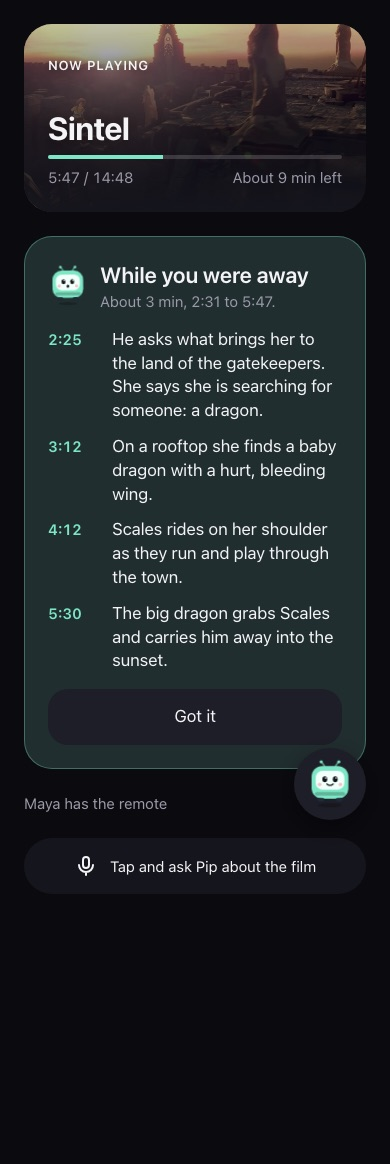
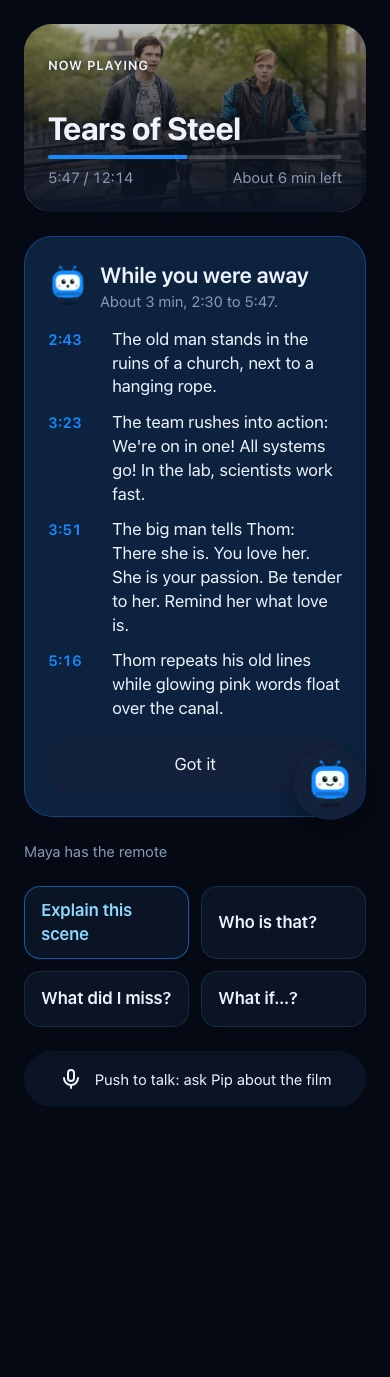
docs: Tears of Steel, the TV launcher, the pad controls and the Command Center

diff --git a/CLAUDE.md b/CLAUDE.md
@@ -9,14 +9,14 @@ Hackathon project (Amazon Developer Hackathon, Fire TV track). Deadline: Fri Oct
 | Path | What | Status |
 |---|---|---|
 | `PROJECT.md` | Plan, architecture, contracts, standards, step-by-step build prompts (section 13) | Done |
-| `shared/protocol.ts` | The only definition of socket events and payloads | Version 8 (`pad:away`, `pip:missed`, source `imagined`); PROJECT.md 7.1 shows version 2 |
+| `shared/protocol.ts` | The only definition of socket events and payloads | Version 9 (`pad:away`, `pip:missed`, source `imagined`, film `tags`, `SceneView`, `HubSnapshot`); PROJECT.md 7.1 shows version 2 |
 | `scripts/sync-shared.mjs` | Copies the contract into `server/src/shared`, `pad/src/shared`, `tv/src/shared` | Done |
 | `scripts/run-all.mjs` | Runs `typecheck`, `lint` or `test` in each package that has a `package.json` | Done |
 | `scripts/tunnel.mjs` | Cloudflare quick tunnel; writes `PUBLIC_URL` and `SERVER_URL` | Done (used from Step 3) |
 | `scripts/preflight.mjs` | `npm run preflight`: PASS or FAIL per demo check (Node 22, HTTPS URL, film, quiz, pad/dist, smoke:ai) | Done |
 | `server/` | Node 22 + Express 5 + Socket.IO 4.8 + Bedrock. `src/core/` = Pip Core, `src/film/` = film night | Steps 2, 4, 7, 8 and 9 done: config, films, /health, /api/films, /qr, /media, model wrapper, sessions, players, host, realtime handlers, Ask Pip, quiz drafts, quiz and results, fake:tv, smoke:join, smoke:quiz |
 | `server/.env` | Local config (gitignored), copied from `server/.env.example` | Done |
-| `pad/` | React + Vite web app: the Pip Pad at `/`, and the browser TV at `/tv` (`pad/src/tv/`, a second TV client on the same protocol; `pad/README.md`) | Steps 5, 7, 9 and 10 done: join, lobby, host controls, status pill, Pip and its motion, debug overlay, Ask Pip, quiz, results, fullscreen, wake lock |
+| `pad/` | React + Vite web app: the Pip Pad at `/`, the browser TV at `/tv` (`pad/src/tv/`, a second TV client on the same protocol), and the Command Center at `/hub` (`pad/src/hub/`, this machine only); `pad/README.md` | Steps 5, 7, 9 and 10 done: join, lobby, host controls, status pill, Pip and its motion, debug overlay, Ask Pip, quiz, results, fullscreen, wake lock |
 | `tv/` | Vega OS app (React Native for Vega) | Steps 3, 6 and the TV parts of 7, 9 and 10 done: lobby with QR and posters, watch with host commands and Pip's bubble, quiz and results, Pip's moods and colors. Commands in `tv/README.md` |
 | `PRODUCT.md`, `DESIGN.md`, `docs/architecture/`, `docs/decisions/`, `docs/evaluation/`, `docs/engineering/` | Product, design, architecture (current state and target), decisions, benchmark, open-source review; from the cloud session, reconciled at the merge | Done |
 | `docs/` | Friction log, product feedback, measurements, demo script; later devpost | Templates, empty measurement tables and a devpost draft done; demo script needs the scene times from the notes |
@@ -52,7 +52,8 @@ Hackathon project (Amazon Developer Hackathon, Fire TV track). Deadline: Fri Oct
 - Oct 17: hand gestures fixed after the first webcam run (one seek per point, a 1.2 s fist for Pip, the TV reconnects unless backgrounded, TV connects and disconnects journaled). The browser TV at `/tv` (contract v6: `tv:home`, film `synopsis`): a Fire TV style home (featured film, rows, the Pip Pad panel) and player (transport bar, command toasts, quiet Pip), the keyboard as the remote; checked in headless Chrome with a pad socket (pause, play, seek, Pip open and close all confirmed by the TV in 6 to 12 ms). Kids-mode screens on the browser TV are not yet walked through.
 - Oct 17-21: video understanding (docs/extractions/video-understanding.md): `npm run pipeline -- asr` runs whisper.cpp (video/setup.sh), `understand` runs qwen3-vl:4b-instruct through Ollama over the frames with a character roster; names only from dialogue (`namedSec`), first-mention spoiler terms, an `unsupported-term` answer check, honest coverage for a partial run. Sintel's generated timeline (content/timelines/sintel.json, 155 candidate facts, frames 0 to 384 s; the run was stopped to spare the 8 GB Mac) answers with `TIMELINE_REVIEW=candidate`; by default Sintel stays on its notes. Tracking vs 31 hand-labelled frames: precision 0.82, recall 0.72. Server 374 tests. Rejected with reasons: Qwen2.5-VL-3B, PySceneDetect, DeepVideoR1 (no licence or weights); Nova blocked on AWS.
 - Oct 22, local-first (docs/vnext/PLAN.md section 0; AWS not verified in time, so no AWS): `AI_PROVIDER=ollama` is the default; both demo films answer through reviewed timelines built from their notes (`npm run timeline:notes`; every note checked against a frame, revealed 10 s after its time; the pipeline's Sintel timeline moved to `server/pipeline/timelines/`); golden probes and datasets for both films. Benchmark with qwen2.5:3b: 0 leaks in 104 (Big Buck Bunny) and 110 (Sintel) probes. "While you were away" (contract v7: `pad:away`, `pip:missed`): a pad hidden or offline during the film, or a late joiner, gets a private recap up to now, no model call. The pad on a tablet: the film's still in a now-playing card, Pip beside the remote. README and docs/devpost.md rewritten. "What if...?" (v8): Pip makes up another version of the story from what has been shown, through the spoiler gate, labelled "made up by Pip". Evidence: docs/vnext/REPORT-local-first.md.
-- Next (Parth): the VVD walk-through of this build (rebuild the TV app on v8), a 10-minute viewing test, the recording, "What we learned" in docs/devpost.md, tag v0.1.0 after `npm run preflight` passes. Cut for the submission: Phase 5 hardware, Phase 6 recommendations, Nova.
+- Oct 22, later: Big Buck Bunny replaced by Tears of Steel (live action, CC BY 3.0; notes from a frame every 10 s and the subtitles; 0 leaks in 108 probes, 95% answered). The browser TV gets Home, Discover, My Space, Scenes (watched chapters only, `GET /api/films/:id/scenes?until=`) and Search; the pad a directional control, quick actions and push to talk; the Command Center at `/hub` (`GET /api/hub`, this machine only, 403 through the tunnel). Palette: Void #050914, Surface #0B1424, Electric #168BFF, Ice #8ED8FF.
+- Next (Parth): the VVD walk-through of this build (rebuild the TV app on v9), a 10-minute viewing test, the recording, "What we learned" in docs/devpost.md, tag v0.1.0 after `npm run preflight` passes. Cut for the submission: Phase 5 hardware, Phase 6 recommendations, Nova.
 
 Update this list when a step is committed.
 

diff --git a/README.md b/README.md
@@ -7,18 +7,22 @@ Built for the Amazon Developer Hackathon, Fire TV track. Direction: [docs/vnext/
 ## What it does
 
 1. **Join.** The TV shows a QR code and a 4-character code. Each person scans it with a phone or tablet (the Pip Pad) and types a first name. The first one in is the host.
-2. **Watch.** The host picks Big Buck Bunny or Sintel. During the film Pip is invisible on the TV.
+2. **Watch.** The TV opens on a Fire TV style launcher: Home, Discover (pick by kind and length), My Space (continue watching, who's in the room, what Pip keeps), Scenes (only the chapters you've already watched, to jump back to) and Search. Two films: **Tears of Steel**, a live-action sci-fi short with real actors, and **Sintel**, an animated fantasy with a twist. During the film Pip is invisible on the TV.
 3. **Control it any way you like.** Play, pause, ±10 s, volume, brightness and simulated lights come from the host's pad, voice ("pause", "back 10", "louder"), webcam hand gestures (`npm run gesture`) or the TV remote. They all go through one action router, and the TV confirms each command. None of them calls a model.
 4. **Ask Pip.** Tap, type or speak. Pip answers briefly on the TV and the asker's pad, using only facts the film has already shown. Questions about later get "No spoilers from me".
 5. **While you were away.** A pad that sleeps or drops off during the film, or someone who joins late, gets a private recap of what they missed, up to now and never further. The film keeps playing for everyone else.
 6. **What if...?** "What if Sintel had kept Scales inside that night?" or, after the film, "Give it a happier ending." Pip makes up a short version of the story from what has been shown so far, labelled "made up by Pip" on every screen. Mid-film it doesn't know the real story ahead, and the spoiler gate keeps later words and unseen characters out, so a made-up ending can't give the real one away by accident. Both films are CC BY 3.0, which allows adaptations.
-7. **Kids games (opt-in).** A switch in the lobby turns on guesses, reactions and a quiz after the film. They're off by default.
+7. **The Command Center** at `http://localhost:8787/hub`, on the Mac only: the brain and whether it's answering, what's playing, each film's reviewed facts and benchmark, today's journal, the devices, automations marked Active, Opt-in or Planned, and the settings. Through the tunnel it refuses to answer.
+8. **Kids games (opt-in).** A switch in the lobby turns on guesses, reactions and a quiz after the film. They're off by default.
 
 ![The TV home](docs/screenshots/local-tv-home.jpg)
-![Ask Pip on a tablet, beside the remote](docs/screenshots/local-pad-tablet-ask.jpg)
-![Pip's answer on the TV, during the film](docs/screenshots/local-tv-answer.jpg)
-
-!["While you were away" on a phone](docs/screenshots/local-pad-missed.jpg)
+![Discover](docs/screenshots/local-tv-discover.jpg)
+![Scenes: only what you've watched](docs/screenshots/local-tv-scenes.jpg)
+![A "what if" ending on the TV](docs/screenshots/local-tv-whatif.jpg)
+![The Pip Pad on a tablet: the directional control and Ask Pip](docs/screenshots/local-pad-tablet-ask.jpg)
+!["While you were away" and the quick actions on a phone](docs/screenshots/local-pad-missed.jpg)
+![The Command Center](docs/screenshots/local-hub-overview.jpg)
+![The Command Center's Library](docs/screenshots/local-hub-library.jpg)
 
 The TV screenshots are from the browser TV at `/tv`. The Vega app's earlier screens (16 Oct, on the Vega Virtual Device) are in `docs/screenshots/tv-*.jpg`.
 
@@ -26,9 +30,9 @@ The TV screenshots are from the browser TV at `/tv`. The Vega app's earlier scre
 
 | Claim | Evidence |
 |---|---|
-| Pip does not spoil the film | 0 leaks in 104 probes on Big Buck Bunny and 110 on Sintel with the local model (`npm run eval -- <film> --ollama`; [docs/evaluation/results/](docs/evaluation/results/)) |
-| Pip answers when the film has shown the answer | 98% (Big Buck Bunny) and 95% (Sintel) of grounded questions answered; every expected fact cited |
-| Pip says when it doesn't know | Abstains correctly on 93 to 95% of unknown-fact and future questions |
+| Pip does not spoil the film | 0 leaks in 108 probes on Tears of Steel and 110 on Sintel with the local model (`npm run eval -- <film> --ollama`; [docs/evaluation/results/](docs/evaluation/results/)) |
+| Pip answers when the film has shown the answer | 95% (Tears of Steel) and 95% (Sintel) of grounded questions answered; every expected fact cited |
+| Pip says when it doesn't know | Abstains correctly on 95 to 98% of unknown-fact and future questions |
 | Controls never wait for a model | 0 model calls for playback; TV confirmation in 6 to 12 ms (browser TV), 177 to 239 ms (VVD over the tunnel) |
 | The catch-up is private and safe | Lab scenarios over real sockets (`server/src/lab/away.test.ts`) |
 
@@ -109,6 +113,6 @@ The Vega app: [tv/README.md](tv/README.md). Rebuild it after a new tunnel URL. T
 ## Credits and licenses
 
 - Code: MIT, see [LICENSE](LICENSE). Vendored: gesture-tv-remote (MIT) in `gesture/vendor`.
-- Big Buck Bunny, (c) copyright 2008 Blender Foundation, www.bigbuckbunny.org, CC BY 3.0.
+- Tears of Steel, (c) copyright 2012 Blender Foundation, mango.blender.org, CC BY 3.0. (Its soundtrack is CC BY-ND; Pip doesn't adapt the music.)
 - Sintel, (c) copyright 2010 Blender Foundation, durian.blender.org, CC BY 3.0.
 - The films are served from our own server and are not in this repository. The posters and screenshots are stills from them.

diff --git a/docs/devpost.md b/docs/devpost.md
@@ -17,7 +17,8 @@ When someone asks "wait, who is that?" or comes back from the kitchen asking "wh
 - **What if...?** Ask "What if Sintel had kept Scales inside that night?", or after the film "Give it a happier ending", and Pip writes a short version of its own, labelled "made up by Pip". It writes only from what the film has shown so far, and the same spoiler gate keeps later words and characters out. So a made-up ending can never give the real one away by accident, and at the end Pip can rewrite the story from the whole film. Stories never feed back into Pip's factual answers. Both films are CC BY 3.0, which allows adaptations. For other films, this is a rights question for the studio.
 - **Quiet by default.** During the film, Pip is hidden on the TV. It appears only when someone asks, on pause, or when called with the Pip button. Quizzes, guesses and reactions for children are an opt-in "Kids games" switch, never the default.
 - **One remote for everything, without the remote.** Play, pause, ±10 s, volume, brightness and (simulated) lights come from the host's pad, from voice ("pause", "back 10", "louder") or from the TV remote. They all go through one action router, and the TV confirms each command before the pad says it happened. None of them calls a model. As an experiment, we also plugged in **hand gestures from a webcam** through the same router (palm, fist, palm plays or pauses; pointing seeks); it works, but it's a playground for the input layer, not the product.
-- **A Fire TV style TV.** The Vega OS app, and a browser version of the same TV client at `/tv` for laptops: a home screen with the featured film and rows, the Pip Pad QR code and code, and a player with a transport bar.
+- **A Fire TV style TV.** The Vega OS app, and a browser version of the same TV client at `/tv` for laptops: Home (featured film, rows, the Pip Pad QR code), Discover (pick by kind and length, no profiling), My Space (continue watching, who's in the room, what Pip keeps), Scenes (only the chapters already watched, to jump back to) and Search, plus a player with a transport bar. The catalogue: Tears of Steel (live action) and Sintel (animated), both CC BY 3.0.
+- **The Command Center.** A dashboard at `/hub`, on the Mac only. It shows what Pip is running on, what's playing, every fact Pip knows per film (behind a spoiler warning), today's journal, the devices, and which automations are active, opt-in or only planned. Through the tunnel it refuses to answer.
 
 ## How we built it
 
@@ -39,7 +40,7 @@ When someone asks "wait, who is that?" or comes back from the kitchen asking "wh
 
 ## Accomplishments that we're proud of
 
-- **Zero spoiler leaks across 214 probes on two real films with the local model.** Big Buck Bunny: 0 of 104, with the expected answer given 98% of the time and every expected fact cited. Sintel, which has a twist: 0 of 110, answered 95%. Pip also correctly declines to answer the questions it should 93 to 95% of the time ([docs/evaluation/results/](evaluation/results/)). Even a fake model that always tells the ending leaks nothing.
+- **Zero spoiler leaks across 218 probes on two real films with the local model.** Tears of Steel (live action, with two reveals): 0 of 108, with the expected answer given 95% of the time and every expected fact cited. Sintel, which has a twist: 0 of 110, answered 95%. Pip also correctly declines to answer the questions it should 95 to 98% of the time ([docs/evaluation/results/](evaluation/results/)). Even a fake model that always tells the ending leaks nothing.
 - **A catch-up nobody else has to sit through.** "While you were away" is spoiler-safe and private to one viewer, needs no model call, and is tested end to end over real sockets.
 - **Five ways to control the film with zero model calls**, all through one router, with the TV confirming each command (6 to 12 ms on the browser TV, 177 to 239 ms on the Vega Virtual Device through the tunnel).
 - **388 server tests**, including a Virtual Pip Lab that runs the real server over real sockets with a fake TV and fake pads, and injects faults (server restarts, a TV that leaves mid-film, a pad that drops and rejoins).

diff --git a/docs/vnext/REPORT-local-first.md b/docs/vnext/REPORT-local-first.md
@@ -54,6 +54,14 @@ Tried with qwen2.5:3b (2 to 6 s each): "What if Sintel had kept Scales inside th
 - Pad: a now-playing card with the film's still, elapsed and total time. On a tablet (900 px and wider), Pip sits beside the remote instead of behind a button; on a phone it's unchanged. The recap card goes at the top. Checked at 1180 x 820 and 390 x 844.
 - Browser TV: kids mode walked through for the first time (two pads, a whole quiz, reveal with picks, results), with no page errors. Fixed: the film's credits showed through the quiz overlay.
 
+## 3b. The catalogue and the UI (later on 22 Oct)
+
+- **Tears of Steel replaces Big Buck Bunny.** It's a live-action short with real actors (Blender Foundation, 2012, CC BY 3.0), downloaded with Parth's OK from download.blender.org (372 MB). The notes were written from a frame every 10 s and the English subtitles, and the names come only when the film says them: the old man is Thom at 3:46, and the giant robot speaks with Celia's memories at 6:23. Benchmark with qwen2.5:3b: 0 leaks in 108 probes, 95% of grounded questions answered, 98% of abstentions right. Big Buck Bunny's files were removed once Tears of Steel played on the browser TV.
+- **TV:** a top bar with Home, Discover (kind and length from the film's tags, no profiling), My Space, Scenes (`GET /api/films/:id/scenes?until=`, chapters fully watched only) and Search. Walked through in Chrome with the keyboard as the remote, with no page errors. Fixed: the key that enters a page from the bar also moved the page's focus.
+- **Pip Pad:** a directional control (OK plays or pauses, left and right skip 10 s, up and down change the volume), quick actions (Explain this scene, Who is that?, What did I miss?, What if…?) and push to talk.
+- **Command Center** at `/hub`: Overview, Library, Memory, Devices, Automations, Settings. It's read-only; `GET /api/hub` answers only on this machine (403 with `cf-connecting-ip` or `x-forwarded-for`), and anything unbuilt is labelled Planned.
+- **Palette:** Void #050914, Surface #0B1424, Electric #168BFF, Ice #8ED8FF, shared by all three.
+
 ## 4. Configuration
 
 `AI_PROVIDER` now defaults to `ollama`. Preflight checks that each film has a reviewed timeline, and says which brain is in use.

diff --git a/pad/README.md b/pad/README.md
@@ -10,6 +10,10 @@ The touch pad that replaces the remote, as a web app (React + Vite, plain CSS). 
 - `src/lib/speech.ts`: the browser's speech recognition (Web Speech API) for the mic. Where the browser has none, the mic button does not show; the microphone needs HTTPS or localhost.
 - `src/shared/protocol.ts`: generated from `shared/protocol.ts` by `npm run sync:shared` at the root. Do not edit it.
 
+## The Command Center (`/hub`)
+
+A read-only dashboard for the household's own screen (`hub.html`, `src/hub/`): Overview, Library, Memory, Devices, Automations and Settings, refreshed every 3 s from `GET /api/hub`. The server answers that only on the machine it runs on, so open `http://localhost:8787/hub` there; through the tunnel the page says so instead.
+
 ## The browser TV (`/tv`)
 
 A second TV client beside the Vega app, in this same Vite project (`tv.html`, `src/tv/`), so the whole room can be built and shown on a laptop: open `/tv` in a browser and it pairs, plays and takes commands exactly like the Fire TV app (the same TV half of the protocol: `tv:hello`, `tv:watch`, `tv:playback`, `tv:command` with `tv:applied`, and `tv:home`). The pads and `npm run gesture` cannot tell the two apart.
@@ -26,7 +30,7 @@ Dependencies and why: `react`, `react-dom` (UI), `socket.io-client` (the realtim
 ```bash
 npm install
 npm run dev        # http://localhost:5173; proxies /socket.io, /api, /qr and /media to the server on :8787
-npm run build      # pad/dist, which the server serves at its own URL: the pad at /, the browser TV at /tv
+npm run build      # pad/dist, which the server serves at its own URL: the pad at /, the browser TV at /tv, the Command Center at /hub
 ```
 
 For local work, also run `npm run dev` and `npm run fake:tv` in `server/`, then open `http://localhost:5173/?code=<code from fake:tv>` in two windows, one of them private, to be two players. Add `?debug=1` to see the ping round trip. With the server running and the pad built, `http://localhost:8787/tv` is a TV without the Vega Virtual Device (in development, `http://localhost:5173/tv`).
